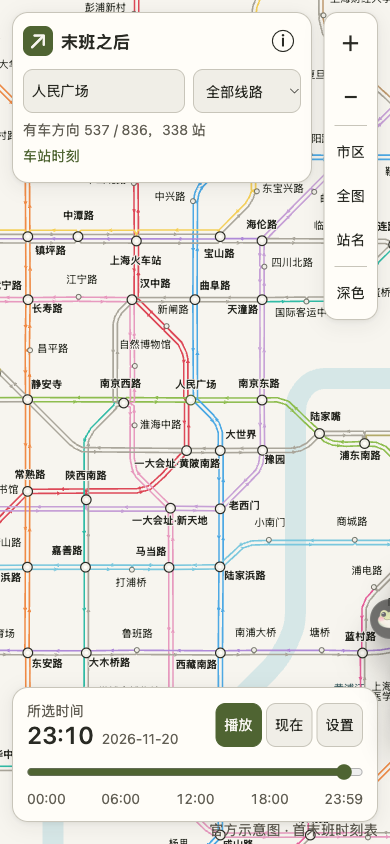
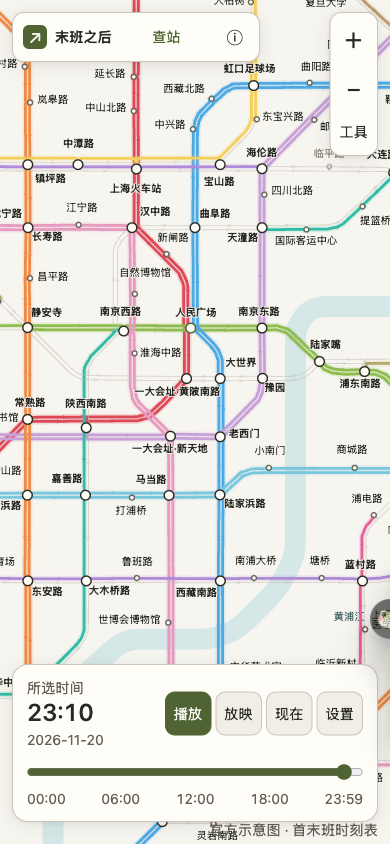
Add timetable cinema with event-aware playback and stronger service contrast

diff --git a/dist/sources.html b/dist/sources.html
@@ -1,1 +1,1 @@
-<!doctype html><html lang="zh-CN"><meta charset="utf-8"><meta name="viewport" content="width=device-width,initial-scale=1"><title>数据来源 · 末班之后</title><script src="theme.js"></script><link rel="stylesheet" href="style.css"><link rel="icon" href="icon.svg"><main class="source-page"><a href="index.html">← 返回时间地图</a><button type="button" data-theme-toggle>深色</button><h1>每一刻，都有出处。</h1><p>1 号线 28 站、2 号线 31 站、8 号线 30 站、10 号线 37 站（含航中路支线），新增 7 号线 33 站、9 号线 35 站、13 号线 31 站，再新增 4 号线 26 站、12 号线 32 站、14 号线 30 站，新增 3 号线 29 站、6 号线 28 站、15 号线 30 站、18 号线 31 站后，合并换乘站共 338 个车站、836 个乘车方向。所有首末班时间取自官方表格，没有使用站间均匀推算或模拟数据。</p><h2>线路布局依据</h2><p>站点位置、相邻区段弯折与站名位置来自<a href="https://service.shmetro.com/yxxlt/index.htm">上海地铁官网网络示意图</a>及其嵌入的官方矢量图（标注版本 D202512，核验于 2026-11-16）。保留官方图的相对方位与换乘关系，仅提取本工具 十四条线路重绘，并增加双向箭头和收车状态。黄浦江为简化方位参照。官方图本身经过示意化处理，并非真实地理比例或导航地图。</p><h2>官方时刻表来源</h2><ul><li><a href="https://service.shmetro.com/hcskb/index.htm?line=1">上海地铁官网 · 1 号线首末班时刻表</a></li><li><a href="https://service.shmetro.com/hcskb/index.htm?line=2">上海地铁官网 · 2 号线首末班时刻表及定点加班车</a></li><li><a href="https://service.shmetro.com/hcskb/index.htm?line=8">上海地铁官网 · 8 号线首末班及周末延时</a></li><li><a href="https://service.shmetro.com/hcskb/index.htm?line=10">上海地铁官网 · 10 号线分支、延时及定点加班车</a></li><li><a href="https://www.shanghai.gov.cn/nw17239/20260413/d8e14c16213246eba8fac7c23b2b04af.html">上海市人民政府 · 2026-04-13 全网时刻表转载</a>，用于图表交叉核对。</li></ul><p>采集核验日期：2026-11-16。官网未明确显示这些表各自的生效日期，因此采集日期不等于生效日期。本工具 是官方常规计划的快照，不是实时运营信息。</p><p><a href="https://service.shmetro.com/hcskb/index.htm?line=7">上海地铁官网 · 7 号线首末班与周末延时</a></p><p><a href="https://service.shmetro.com/hcskb/index.htm?line=9">上海地铁官网 · 9 号线首末班与周末延时</a></p><p><a href="https://service.shmetro.com/hcskb/index.htm?line=13">上海地铁官网 · 13 号线首末班与周末延时</a></p><p><a href="https://service.shmetro.com/hcskb/index.htm?line=4">上海地铁官网 · 4 号线首末班表</a></p><p><a href="https://service.shmetro.com/hcskb/index.htm?line=12">上海地铁官网 · 12 号线首末班表</a></p><p><a href="https://service.shmetro.com/hcskb/index.htm?line=14">上海地铁官网 · 14 号线首末班表</a></p><p><a href="https://service.shmetro.com/hcskb/index.htm?line=3">上海地铁官网 · 3 号线首末班表</a></p><p><a href="https://service.shmetro.com/hcskb/index.htm?line=6">上海地铁官网 · 6 号线首末班表</a></p><p><a href="https://service.shmetro.com/hcskb/index.htm?line=15">上海地铁官网 · 15 号线首末班表</a></p><p><a href="https://service.shmetro.com/hcskb/index.htm?line=18">上海地铁官网 · 18 号线首末班表</a></p><h2>颜色怎样计算</h2><ul><li>每段箭头从出发站看：首班开始至末班发车之前，表示仍有后续服务。不是轨道上有车，也不是现在立刻有车到站。</li><li>时间精确到分钟。在表定末班分钟开始时，保守视为末班已发，不显示为还能赶上。</li><li>首班尚未开始和末班已结束都显示灰色，点击站点可区分原因。</li><li>1 号线采用周五、周六延时表；清晨部分北行首班只到上海火车站。末班跨午夜按前一运营日延续。</li><li>2 号线广兰路以西东行采用到广兰路的常规末班；广兰路及以东采用到机场的末班。页面分别显示机场与广兰路末班限制。</li><li>虹桥火车站 23:04、23:30，虹桥2号航站楼 23:06、23:32 的定点加班车允许上车，终点龙阳路。中途指定站只下不上，不延长这些站的可乘车时间。常规末班后用线路原色虚线区分。</li><li>8 号线采用周五、周六延时表，两个方向分别判断。</li><li>10 号线在龙溪路分为虹桥火车站与航中路两支；周五、周六仅虹桥火车站—新江湾城区段延时，不延长航中路支线及新江湾城—基隆路段。共线区段只要任一可乘班次仍在服务，保持点亮；分岔后独立判断。</li><li>10 号线周日—周四定点加班车仅虹桥火车站（22:45 / 23:00）、虹桥2号航站楼（22:46 / 23:01）、虹桥1号航站楼（22:49 / 23:04）允许上车，终点五角场；中途指定站只下不上。</li><li>7 号线仅祁华路—花木路、9 号线仅佘山—杨高中路、13 号线仅金运路—华鹏路区段在周五、周六延时。区间末班不会延长到区间之外；跨午夜继续沿用前一运营日方案。</li><li>4 号线为闭合环线，内圈、外圈分别计算。官网宜山路出现两行，分别保留内圈和外圈的发车时间，不把到达时间当发车。末班终到宜山路，经过宜山路继续绕行的方向不会因此保持点亮。</li><li>12、14 号线采用官方常规首末班表，不套用其他线路的周末延时。14 号线仅包含当前官方表中有首末班时刻的 30 个运营站。</li><li>3、6、15、18 号线采用各自官方普通首末班表。3、4 号线共线区段保留独立轨迹和服务状态；18 号线包含官方表中的航头—康文路全线，并按每站首班时间处理多点发车。</li><li>终点站的“到达”时间不会当作该方向的上车时间。</li></ul><h2>适用范围</h2><p>日期选择按星期套用官方常规方案。尚未接入法定节假日专项方案、临时封站、现场加班和实时延误；选择历史或未来日期也不代表已核验那天的实际运营。地图不能保证换乘成功或来得及进站，请以当日公告、站内提示为准。</p><p>官网提示末班车进站前三分钟停售该末班车车票；本工具以站台发车时刻判断，不是进站截止时间。</p><h2>一分钟体验</h2><p>选 2026-11-16，在时间面板的“设置”中点“夜间 21:00–02:00”后播放：从 22:30 起观察十四条线逐段变灰；选虹桥火车站看加班车；把日期换成 2026-11-20，继续播放至次日，观察 1、7、8、9、10、13 号线按区段延时。选龙溪路查看三种相邻方向：前往航中路支线可能已收车，前往虹桥火车站的分支仍有服务。全图适合看变化，“站名”或放大适合查看细节。</p></main></html>
+<!doctype html><html lang="zh-CN"><meta charset="utf-8"><meta name="viewport" content="width=device-width,initial-scale=1"><title>数据来源 · 末班之后</title><script src="theme.js"></script><link rel="stylesheet" href="style.css"><link rel="icon" href="icon.svg"><main class="source-page"><a href="index.html">← 返回时间地图</a><button type="button" data-theme-toggle>深色</button><h1>每一刻，都有出处。</h1><p>1 号线 28 站、2 号线 31 站、8 号线 30 站、10 号线 37 站（含航中路支线），新增 7 号线 33 站、9 号线 35 站、13 号线 31 站，再新增 4 号线 26 站、12 号线 32 站、14 号线 30 站，新增 3 号线 29 站、6 号线 28 站、15 号线 30 站、18 号线 31 站后，合并换乘站共 338 个车站、836 个乘车方向。所有首末班时间取自官方表格，没有使用站间均匀推算或模拟数据。</p><h2>线路布局依据</h2><p>站点位置、相邻区段弯折与站名位置来自<a href="https://service.shmetro.com/yxxlt/index.htm">上海地铁官网网络示意图</a>及其嵌入的官方矢量图（标注版本 D202512，核验于 2026-11-16）。保留官方图的相对方位与换乘关系，仅提取本工具 十四条线路重绘，并增加双向箭头和收车状态。黄浦江为简化方位参照。官方图本身经过示意化处理，并非真实地理比例或导航地图。</p><h2>官方时刻表来源</h2><ul><li><a href="https://service.shmetro.com/hcskb/index.htm?line=1">上海地铁官网 · 1 号线首末班时刻表</a></li><li><a href="https://service.shmetro.com/hcskb/index.htm?line=2">上海地铁官网 · 2 号线首末班时刻表及定点加班车</a></li><li><a href="https://service.shmetro.com/hcskb/index.htm?line=8">上海地铁官网 · 8 号线首末班及周末延时</a></li><li><a href="https://service.shmetro.com/hcskb/index.htm?line=10">上海地铁官网 · 10 号线分支、延时及定点加班车</a></li><li><a href="https://www.shanghai.gov.cn/nw17239/20260413/d8e14c16213246eba8fac7c23b2b04af.html">上海市人民政府 · 2026-04-13 全网时刻表转载</a>，用于图表交叉核对。</li></ul><p>采集核验日期：2026-11-16。官网未明确显示这些表各自的生效日期，因此采集日期不等于生效日期。本工具 是官方常规计划的快照，不是实时运营信息。</p><p><a href="https://service.shmetro.com/hcskb/index.htm?line=7">上海地铁官网 · 7 号线首末班与周末延时</a></p><p><a href="https://service.shmetro.com/hcskb/index.htm?line=9">上海地铁官网 · 9 号线首末班与周末延时</a></p><p><a href="https://service.shmetro.com/hcskb/index.htm?line=13">上海地铁官网 · 13 号线首末班与周末延时</a></p><p><a href="https://service.shmetro.com/hcskb/index.htm?line=4">上海地铁官网 · 4 号线首末班表</a></p><p><a href="https://service.shmetro.com/hcskb/index.htm?line=12">上海地铁官网 · 12 号线首末班表</a></p><p><a href="https://service.shmetro.com/hcskb/index.htm?line=14">上海地铁官网 · 14 号线首末班表</a></p><p><a href="https://service.shmetro.com/hcskb/index.htm?line=3">上海地铁官网 · 3 号线首末班表</a></p><p><a href="https://service.shmetro.com/hcskb/index.htm?line=6">上海地铁官网 · 6 号线首末班表</a></p><p><a href="https://service.shmetro.com/hcskb/index.htm?line=15">上海地铁官网 · 15 号线首末班表</a></p><p><a href="https://service.shmetro.com/hcskb/index.htm?line=18">上海地铁官网 · 18 号线首末班表</a></p><h2>颜色怎样计算</h2><ul><li>每段箭头从出发站看：首班开始至末班发车之前，表示仍有后续服务。不是轨道上有车，也不是现在立刻有车到站。</li><li>时间精确到分钟。在表定末班分钟开始时，保守视为末班已发，不显示为还能赶上。</li><li>首班尚未开始和末班已结束都显示灰色，点击站点可区分原因。</li><li>1 号线采用周五、周六延时表；清晨部分北行首班只到上海火车站。末班跨午夜按前一运营日延续。</li><li>2 号线广兰路以西东行采用到广兰路的常规末班；广兰路及以东采用到机场的末班。页面分别显示机场与广兰路末班限制。</li><li>虹桥火车站 23:04、23:30，虹桥2号航站楼 23:06、23:32 的定点加班车允许上车，终点龙阳路。中途指定站只下不上，不延长这些站的可乘车时间。常规末班后用线路原色虚线区分。</li><li>8 号线采用周五、周六延时表，两个方向分别判断。</li><li>10 号线在龙溪路分为虹桥火车站与航中路两支；周五、周六仅虹桥火车站—新江湾城区段延时，不延长航中路支线及新江湾城—基隆路段。共线区段只要任一可乘班次仍在服务，保持点亮；分岔后独立判断。</li><li>10 号线周日—周四定点加班车仅虹桥火车站（22:45 / 23:00）、虹桥2号航站楼（22:46 / 23:01）、虹桥1号航站楼（22:49 / 23:04）允许上车，终点五角场；中途指定站只下不上。</li><li>7 号线仅祁华路—花木路、9 号线仅佘山—杨高中路、13 号线仅金运路—华鹏路区段在周五、周六延时。区间末班不会延长到区间之外；跨午夜继续沿用前一运营日方案。</li><li>4 号线为闭合环线，内圈、外圈分别计算。官网宜山路出现两行，分别保留内圈和外圈的发车时间，不把到达时间当发车。末班终到宜山路，经过宜山路继续绕行的方向不会因此保持点亮。</li><li>12、14 号线采用官方常规首末班表，不套用其他线路的周末延时。14 号线仅包含当前官方表中有首末班时刻的 30 个运营站。</li><li>3、6、15、18 号线采用各自官方普通首末班表。3、4 号线共线区段保留独立轨迹和服务状态；18 号线包含官方表中的航头—康文路全线，并按每站首班时间处理多点发车。</li><li>终点站的“到达”时间不会当作该方向的上车时间。</li></ul><h2>适用范围</h2><p>日期选择按星期套用官方常规方案。尚未接入法定节假日专项方案、临时封站、现场加班和实时延误；选择历史或未来日期也不代表已核验那天的实际运营。地图不能保证换乘成功或来得及进站，请以当日公告、站内提示为准。</p><p>官网提示末班车进站前三分钟停售该末班车车票；本工具以站台发车时刻判断，不是进站截止时间。</p><h2>收发车放映</h2><p>点时间轴旁的“放映”，从所选日期 04:00 播到次日 04:00。每个方向的首末班变化都参与计算；没有服务状态变化的时段自动快进，临近变化时减速。弹幕依次提示某条线首个方向开始可乘、部分方向收车、全部方向收车，不表示全线同时开通或关闭。暂停、拖动进度、重播或退出均可随时操作。</p><h2>一分钟体验</h2><p>选 2026-11-16，在时间面板的“设置”中点“夜间 21:00–02:00”后播放：从 22:30 起观察十四条线逐段变灰；选虹桥火车站看加班车；把日期换成 2026-11-20，继续播放至次日，观察 1、7、8、9、10、13 号线按区段延时。选龙溪路查看三种相邻方向：前往航中路支线可能已收车，前往虹桥火车站的分支仍有服务。全图适合看变化，“站名”或放大适合查看细节。</p></main></html>

diff --git a/dist/index.html b/dist/index.html
@@ -4,18 +4,19 @@
 <main aria-label="上海地铁时间地图">
 <div class="map-scroll" id="map-scroll" tabindex="0" aria-label="地铁线路图，可拖动或用方向键平移"><div id="map-stage"><svg id="map" role="group" aria-label="上海地铁14条线路双向服务示意图"></svg></div></div>
 <section class="search-panel floating" aria-label="查找车站与线路">
-<header><a class="brand" href="index.html"><span class="mark" aria-hidden="true">↗</span><strong>末班之后</strong></a><span class="city-name">上海地铁</span><button id="about-toggle" class="icon-button" aria-label="图例与说明" aria-expanded="false" aria-controls="about-panel">ⓘ</button></header>
-<div class="search-row"><label class="sr-only" for="station">查找车站</label><input id="station" type="search" list="station-options" placeholder="搜索车站" autocomplete="off" aria-describedby="station-message"><datalist id="station-options"></datalist><label class="sr-only" for="line-select">查看线路</label><select id="line-select" aria-label="查看线路"></select></div>
+<header><a class="brand" href="index.html"><span class="mark" aria-hidden="true">↗</span><strong>末班之后</strong></a><button id="search-toggle" class="text-button" aria-expanded="false" aria-controls="search-controls">查站</button><button id="about-toggle" class="icon-button" aria-label="图例与说明" aria-expanded="false" aria-controls="about-panel">ⓘ</button></header>
+<div id="search-controls" hidden><div class="search-row"><label class="sr-only" for="station">查找车站</label><input id="station" type="search" list="station-options" placeholder="搜索车站" autocomplete="off" aria-describedby="station-message"><datalist id="station-options"></datalist><label class="sr-only" for="line-select">查看线路</label><select id="line-select" aria-label="查看线路"></select></div>
 <p id="station-message" role="status"></p>
-<div class="search-status"><span id="count"></span><button id="show-detail" class="text-button" aria-controls="station-details" aria-expanded="false">车站时刻</button></div>
+<div class="search-status"><span id="count"></span><button id="show-detail" class="text-button" aria-controls="station-details" aria-expanded="false">车站时刻</button></div></div>
 </section>
+<div id="danmaku" aria-hidden="true"></div><span id="show-announcement" class="sr-only" role="status"></span>
 <aside id="station-details" class="floating" tabindex="-1" aria-label="车站时刻" hidden><div class="panel-heading"><span>车站时刻</span><button id="close-detail" class="icon-button" aria-label="关闭车站时刻">×</button></div><div class="detail-scroll"><div id="detail"></div></div></aside>
-<section id="about-panel" class="floating" aria-label="图例与说明" hidden><div class="panel-heading"><strong>怎样看这张图</strong><button id="close-about" class="icon-button" aria-label="关闭说明">×</button></div><div class="legend"><span><i class="open-key"></i>彩色：该方向仍有后续车</span><span><i class="closed-key"></i>灰色：该方向无车可乘</span><span><i class="extra-key"></i>虚线：仅加班车</span></div><p>首班未开始和末班已结束都显示灰色。每条线路从本站到相邻站算一个方向。</p><p>沿用官方示意图，不按真实地理比例绘制。按官方时刻表展示，不是实时到站信息，也不保证换乘成功。</p><p>核验于 2026-11-16，不含节假日临时调整。<a href="sources.html">数据来源与计算规则</a></p><footer>独立工具，非上海地铁官方产品。<br>v1.0.1 · <a href="https://github.com/holynova/shanghai-metro-night" target="_blank" rel="noopener">GitHub</a></footer></section>
-<nav class="map-tools floating" aria-label="地图工具"><button id="plus" aria-label="放大地图" title="放大地图">＋</button><button id="minus" aria-label="缩小地图" title="缩小地图">−</button><span class="tool-divider"></span><button id="city" title="查看市区">市区</button><button id="fit" title="查看全图">全图</button><button id="readable" title="放大站名">站名</button><span class="tool-divider"></span><button type="button" data-theme-toggle aria-label="切换深色模式">深色</button></nav>
+<section id="about-panel" class="floating" aria-label="图例与说明" hidden><div class="panel-heading"><strong>怎样看这张图</strong><button id="close-about" class="icon-button" aria-label="关闭说明">×</button></div><div class="legend"><span><i class="open-key"></i>彩色：该方向仍有后续车</span><span><i class="closed-key"></i>灰色：该方向无车可乘</span><span><i class="extra-key"></i>虚线：仅加班车</span></div><p>“放映”从所选日期 04:00 播到次日 04:00：逐段开通和收车时慢放，状态不变时自动快进。弹幕中的“开始有车”指该线首个可乘方向，不是全线同时发车。</p><p>首班未开始和末班已结束都显示灰色。每条线路从本站到相邻站算一个方向。</p><p>沿用官方示意图，不按真实地理比例绘制。按官方时刻表展示，不是实时到站信息，也不保证换乘成功。</p><p>核验于 2026-11-16，不含节假日临时调整。<a href="sources.html">数据来源与计算规则</a></p><footer>独立工具，非上海地铁官方产品。<br>v1.0.2 · <a href="https://github.com/holynova/shanghai-metro-night" target="_blank" rel="noopener">GitHub</a></footer></section>
+<nav class="map-tools floating" aria-label="地图工具"><button id="plus" aria-label="放大地图" title="放大地图">＋</button><button id="minus" aria-label="缩小地图" title="缩小地图">−</button><button id="tools-toggle" aria-expanded="false" aria-controls="extra-tools">工具</button><div id="extra-tools" hidden><span class="tool-divider"></span><button id="city" title="查看市区">市区</button><button id="fit" title="查看全图">全图</button><button id="readable" title="放大站名">站名</button><span class="tool-divider"></span><button type="button" data-theme-toggle aria-label="切换深色模式">深色</button></div></nav>
 <section class="timeline floating" aria-label="查看时间">
-<div class="time-top"><div class="time-readout"><span id="mode">上海当前时间</span><div><strong id="selected-time">--:--</strong><span id="viewing-date"></span></div></div><div class="time-actions"><button id="play" aria-pressed="false">播放</button><button id="now">现在</button><button id="time-options-toggle" aria-label="展开日期与时间选项" aria-expanded="false" aria-controls="time-options">设置</button></div></div>
+<div class="time-top"><div class="time-readout"><span id="mode">上海当前时间</span><div><strong id="selected-time">--:--</strong><span id="viewing-date"></span></div></div><div class="time-actions"><button id="play" aria-pressed="false">播放</button><button id="cinema" aria-pressed="false">放映</button><button id="restart-show" hidden>重播</button><button id="now">现在</button><button id="time-options-toggle" aria-label="展开日期与时间选项" aria-expanded="false" aria-controls="time-options">设置</button></div></div>
 <input id="slider" type="range" min="0" max="1439" step="1" aria-label="时间轴"><div class="ticks" id="ticks"></div>
-<div id="time-options" hidden><div class="date-row"><label><span id="date-label">查看日期</span><input id="date" type="date" aria-label="查看日期"></label><label>时间<input id="time-input" type="time" aria-label="跳转到指定时间"></label><button id="range" aria-pressed="false">夜间 21:00–02:00</button></div><div class="timeline-bottom"><span id="calendar-note"></span><div class="presets"><button data-time="360">06:00</button><button data-time="1320">22:00</button><button data-time="1380">23:00</button><button data-time="30">00:30</button></div></div></div>
+<p id="show-status" role="status" hidden></p><div id="time-options" hidden><div class="date-row"><label><span id="date-label">查看日期</span><input id="date" type="date" aria-label="查看日期"></label><label>时间<input id="time-input" type="time" aria-label="跳转到指定时间"></label><button id="range" aria-pressed="false">夜间 21:00–02:00</button></div><div class="timeline-bottom"><span id="calendar-note"></span><div class="presets"><button data-time="360">06:00</button><button data-time="1320">22:00</button><button data-time="1380">23:00</button><button data-time="30">00:30</button></div></div></div>
 </section>
 <div class="map-attribution">官方示意图 · 首末班时刻表</div>
 </main><script type="module" src="app.mjs"></script></body></html>

diff --git a/dist/style.css b/dist/style.css
@@ -11,3 +11,12 @@
 @media(max-width:370px){.search-panel{width:calc(100vw - 80px)}.search-row{grid-template-columns:1fr}.search-status{display:none}.search-panel header{margin-bottom:6px}.search-panel{padding:8px}.search-row input,.search-row select{min-height:40px}.time-top{flex-wrap:wrap}.time-actions{margin-left:auto}.time-readout>div{gap:4px}.time-readout #viewing-date{display:none}#station-details,#about-panel{top:200px;max-height:calc(100dvh - 380px)}}
 @media(max-height:560px) and (min-width:600px){.search-status{display:none}.search-panel{width:300px}.timeline{width:460px;left:auto;right:90px;transform:none;bottom:24px;max-height:calc(100dvh - 40px);overflow:auto}#station-details,#about-panel{top:150px;max-height:calc(100dvh - 165px);width:300px}.map-tools{top:12px}.map-tools button{min-height:36px}.time-readout>div{flex-wrap:nowrap}}
 @media(prefers-reduced-motion:reduce){*{scroll-behavior:auto!important}}
+/* Service state uses weight, brightness and a soft halo, not color alone. */
+:root{--closed:#bdbab0;--inactive-label:#8e8a7e}:root[data-theme=dark]{--closed:#4e4d44;--inactive-label:#77756b}
+.route-halo{opacity:.16;pointer-events:none}.route-stroke{transition:stroke .18s,stroke-width .18s}g[data-state=open] .route-stroke{stroke-width:4.6}g[data-state=closed] .route-stroke{stroke-width:1.35;opacity:.65}g[data-state=closed]>path:last-child{opacity:.35}.stop[data-active=false] text{fill:var(--inactive-label);font-weight:400}.stop[data-active=false] circle{opacity:.55}.stop[data-active=true] text{fill:var(--text)}.stop[data-active=true] circle{stroke-width:2.4}:root[data-theme=dark] g[data-state=open] .route-stroke{filter:drop-shadow(0 0 3px currentColor)}:root[data-theme=dark] .route-halo{opacity:.22}
+.search-panel{width:248px;padding:6px 10px;border-radius:12px;top:12px;left:12px}.search-panel header{gap:8px;margin:0}.brand strong{font-size:14px}.mark{width:24px;line-height:24px;font-size:17px;border-radius:6px}#search-toggle{margin-left:auto;min-height:36px}.search-panel .icon-button{font-size:17px;min-width:28px;min-height:36px}.search-row{margin-top:8px;grid-template-columns:minmax(0,1fr) 104px}.search-status{display:flex;flex-wrap:wrap;margin:4px 0 0}.search-status #count{font-size:14px;white-space:nowrap}.search-status #show-detail{min-height:32px}#search-controls #station{min-height:40px}.map-tools{right:12px;top:12px;padding:3px;border-radius:12px}.map-tools button{min-width:40px;min-height:40px;padding:6px}.map-tools #extra-tools{display:flex;flex-direction:column}.map-tools #tools-toggle{font-size:14px}#show-status{margin:8px 0 0;color:var(--muted)}.time-actions{flex-wrap:wrap}.time-top{flex-wrap:wrap}#cinema[aria-pressed=true]{background:var(--field);color:var(--text);border-color:var(--line)}
+#danmaku{position:absolute;inset:0;overflow:hidden;pointer-events:none;z-index:6}.danmaku-item{position:absolute;left:0;width:max-content;max-width:90vw;white-space:nowrap;font-size:17px;font-weight:600;color:var(--text);background:var(--surface);border:1px solid var(--line);border-left:4px solid var(--cue-color);border-radius:999px;padding:8px 16px;box-shadow:0 3px 14px #0002;animation:danmaku-flight 7s linear both;will-change:transform}.playback-paused .danmaku-item{animation-play-state:paused}@keyframes danmaku-flight{from{transform:translateX(100vw)}to{transform:translateX(-100%)}}
+.cinema .search-panel,.cinema .map-tools,.cinema #time-options-toggle,.cinema #now{display:none}.cinema .timeline{left:50%;transform:translateX(-50%);width:min(620px,calc(100vw - 24px))}.cinema #selected-time{font-size:32px}.cinema .time-actions{margin-left:auto}.cinema .map-attribution{opacity:.6}.cinema svg text{opacity:.7}
+@media(max-width:900px){.search-panel{width:248px;max-width:calc(100vw - 76px)}.search-panel header{margin:0}.search-row{grid-template-columns:minmax(0,1fr) 104px}.search-status{display:flex}.time-top{align-items:center}.time-actions{gap:4px}.time-actions button{padding:8px}.cinema .timeline{left:12px;right:12px;transform:none}.danmaku-item{font-size:14px;padding:7px 12px}.time-readout{flex:1}.time-readout #viewing-date{display:inline}#mode{display:block;min-height:21px}}
+@media(max-width:370px){.search-row{grid-template-columns:1fr}.time-top{gap:4px}.time-actions{width:100%;justify-content:flex-end}.cinema .time-actions{width:auto}.brand strong{font-size:14px}}
+@media(prefers-reduced-motion:reduce){.danmaku-item{animation:none;left:50%;transform:translateX(-50%)}.route-stroke{transition:none}}

diff --git a/README.md b/README.md
@@ -1,14 +1,15 @@
 # 末班之后 / Shanghai Metro Night
 
-全屏线路图搭配悬浮搜索、地图工具与时间轴，查看上海地铁 14 条线路、338 个车站的双向服务状态。站点与线路沿用官方示意图布局，首末班来自官方时刻表；支持站名搜索、跨午夜播放、浅色与深色模式。灰色表示该方向当前无后续班次可上车，不代表轨道上没有列车，也不保证换乘成功。数据核验于 2026-11-16，不含临时运营调整。
+全屏线路图搭配悬浮搜索、地图工具与时间轴，查看上海地铁 14 条线路、338 个车站的双向服务状态。站点与线路沿用官方示意图布局，首末班来自官方时刻表；支持站名搜索、浅深色模式与收发车放映：自动快进平稳时段，弹幕提示线路开通与收车。灰色表示该方向当前无后续班次可上车，不代表轨道上没有列车，也不保证换乘成功。数据核验于 2026-11-16，不含临时运营调整。
 
-Use a full-screen schematic with floating search, map tools and timeline to explore the first and last boarding times of 14 Shanghai Metro lines and 338 stations on the official schematic layout. Search stations, scrub through midnight, and switch between light and dark themes. Gray means no later boarding service at the selected station and direction. This is a published timetable snapshot, not live train tracking or a transfer guarantee.
+Use a full-screen schematic with floating search, map tools and timeline to explore the first and last boarding times of 14 Shanghai Metro lines and 338 stations on the official schematic layout. Search stations, switch themes, or watch a daily opening-and-closing film with automatic fast-forward and timed announcements. Gray means no later boarding service at the selected station and direction. This is a published timetable snapshot, not live train tracking or a transfer guarantee.
 
 ![浅色地图 / Light map](assets/screenshot.png)
 
 - [在线体验 / Live](https://xiaosang.cc/shanghai-metro-night/)
 - [GitHub Repo](https://github.com/holynova/shanghai-metro-night)
 - [深色预览 / Dark preview](assets/screenshot-dark.png)
+- [收发车放映 / Timetable film](assets/screenshot-cinema.png)
 
 <img src="assets/qr.png" width="180" alt="扫码打开上海地铁时间地图 / Open the metro map">
 
@@ -30,7 +31,7 @@ npm run deploy:check
 npm run deploy -- /path/to/holynova.github.io
 ```
 
-Shared Worker `xiaosang-portfolio` · `xiaosang.cc/shanghai-metro-night/` · v1.0.1
+Shared Worker `xiaosang-portfolio` · `xiaosang.cc/shanghai-metro-night/` · v1.0.2
 
 源码与部署配置统一在 main；本地手动发布，不使用自动部署分支或 workflow。
 Source and deployment configuration share main. Deploy manually from the committed production build.

diff --git a/audit/2026-11/CINEMA.md b/audit/2026-11/CINEMA.md
@@ -1,0 +1,17 @@
+# 点亮对比与收发车放映 · v1.0.2
+
+## 改动
+
+运行区段 4.6px，停运区段 1.35px 并降低透明度；运行区段带同色柔光，深色下加强光晕，停运站名淡化。宽度单位为 SVG 坐标，随地图一起缩放。官方线路色与几何保持。
+
+顶部默认收成 248×50 的工具条，查站与地图附加工具按需展开。时间轴保留“放映”入口，时钟始终显示。
+
+放映窗口为所选日 04:00 至次日 04:00。Web Worker 逐分钟计算所有方向的真实服务状态；快进最多跨 30 分钟，但绝不越过事件分钟，临近变化恢复逐段播放。首个可乘方向出现、首次部分方向收车、全部方向收车分别触发弹幕，不宣称整线同时开通。弹幕积压时稍停当前事件，避免提示与地图脱节。支持暂停、拖动、重播、退出及取消准备，失败后保留手动时间轴。
+
+## 验证
+
+38 项测试通过，包括同一分钟相反方向开关导致总数不变的事件、跨午夜、官方周五 14 条线开通收车、快进不跳过任何事件。生产构建、版本及 README 校验通过。
+
+实际完整播放 2026-11-20，收到 42 条提示：14 条开通、14 条部分收车、14 条全部收车；最终次日 04:00 有车方向 0/836。记录见 show-verification.json。
+
+浏览器检查准备取消、暂停、退出、320/390/768 视口无文档横向溢出；时钟在视口内。放映跳转次日 01:00 后退出保留正确实际日期。手机为视口模拟，未真机验证。浅色、深色、手机截图已更新，screenshot-cinema.png 为真实播放截图。
